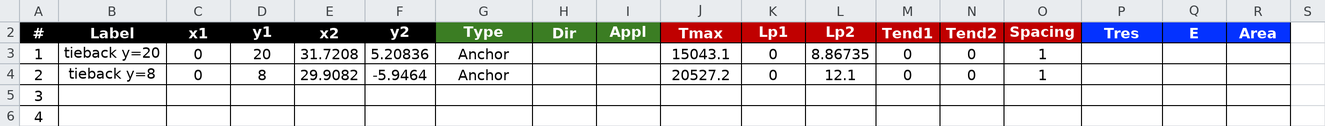
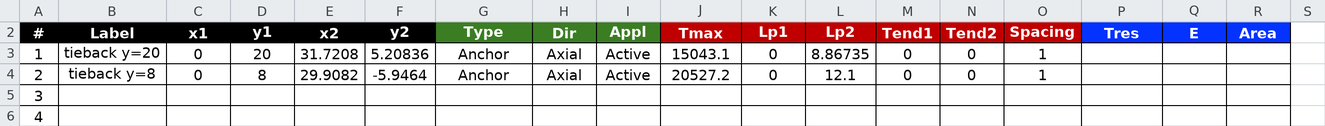
docs(tutorials): the reinforce sheets show what their formulas answer
Dir/Appl formula cells carry cached values (XML surgery, formulas
untouched, loader asserted identical) so renders and non-Excel readers
see what Excel shows; both sheet renders regenerated. LEM-8's intro
names the base 10 ft below the slope (not in the drawing) and the
profile step includes Max Depth in the entry instruction.

Claude-Session: https://claude.ai/code/session_01XjjT2aBxw8gY7EFdpoUcpj

Changed region(s): [[0.4023, 0.5476, 0.4951, 0.6429], [0.4023, 0.381, 0.4951, 0.4762]]

diff --git a/tools/fill_reinforce_formula_cache.py b/tools/fill_reinforce_formula_cache.py
@@ -1,0 +1,101 @@
+"""Store cached results for the reinforce sheet's Dir/Appl formula cells.
+
+The template's ``reinforce!H:I`` are VLOOKUPs reading ``Type``. A workbook
+written by openpyxl carries the formulas but no cached results, so Excel shows
+Dir/Appl once it opens the file while every other reader — ``render_sheet``,
+a docs screenshot, a pandas dump — sees blank cells. Excel itself stores a
+cached ``<v>`` beside every ``<f>``; this script adds the same, by direct
+sheet-XML surgery (openpyxl cannot write a value behind a formula), leaving
+the formulas byte-identical. ``fullCalcOnLoad`` still makes Excel recompute
+on open, so a wrong cache could never survive a real session.
+
+The cached values are not guessed: each row's Type is resolved through
+``xslope.fileio``'s own preset table, and the loader's output is asserted
+identical before and after.
+
+Run:  python3 tools/fill_reinforce_formula_cache.py <workbook.xlsx> [...]
+"""
+
+import re
+import shutil
+import sys
+import zipfile
+import contextlib
+import io
+
+PRESETS = {  # Type -> (Dir, Appl), the template's own lookup block
+    "geosynthetic": ("Tangent", "Active"),
+    "nail": ("Axial", "Passive"),
+    "tieback": ("Axial", "Active"),
+    "anchor": ("Axial", "Active"),
+}
+
+
+def load_lines(path):
+    from xslope.fileio import load_slope_data
+    with contextlib.redirect_stdout(io.StringIO()):
+        sd = load_slope_data(path)
+    return [(l.get("label"), l.get("type"), l.get("dir"), l.get("appl"))
+            for l in sd.get("reinforcement_lines") or []]
+
+
+def fill(path):
+    before = load_lines(path)
+    tmp = path + ".tmp"
+    with zipfile.ZipFile(path) as zin:
+        names = zin.namelist()
+        # find the reinforce sheet by its declared name
+        wbxml = zin.read("xl/workbook.xml").decode("utf-8")
+        m = re.search(r'<sheet[^>]*name="reinforce"[^>]*?r:id="rId(\d+)"', wbxml)
+        rels = zin.read("xl/_rels/workbook.xml.rels").decode("utf-8")
+        relel = re.search(r'<Relationship\b[^>]*\bId="rId%s"[^>]*/>' % m.group(1), rels)
+        target = re.search(r'Target="([^"]+)"', relel.group(0)).group(1)
+        target = target.lstrip("/")
+        if not target.startswith("xl/"):
+            target = "xl/" + target
+        sheet = zin.read(target).decode("utf-8")
+        shared = zin.read("xl/sharedStrings.xml").decode("utf-8") if "xl/sharedStrings.xml" in names else ""
+
+        # rows 3..: read Type (G) inline/shared is messy — take types from the loader instead
+        types = [t for (_, t, _, _) in before]
+        filled = []
+        row = 3
+        for t in types:
+            dirv, applv = PRESETS[str(t).lower()]
+            for col, val in (("H", dirv), ("I", applv)):
+                ref = f"{col}{row}"
+                # match the formula cell and add a cached string value
+                pat = re.compile(r'(<c r="%s"[^>]*?)(/>|>(.*?)</c>)' % ref, re.S)
+                mm = pat.search(sheet)
+                if not mm:
+                    continue
+                cell = mm.group(0)
+                if "<f" not in cell:
+                    continue  # not a formula cell; leave alone
+                if re.search(r"<v>[^<]+</v>", cell):
+                    continue  # already carries a non-empty cache
+                head = mm.group(1)
+                if 't="' not in head:
+                    head = head.rstrip() + ' t="str"'
+                inner = re.search(r">(.*)</c>", cell, re.S)
+                body = inner.group(1) if inner else ""
+                body = re.sub(r"<v\s*/>|<v></v>", "", body)  # drop an empty cache
+                newcell = head + ">" + body + f"<v>{val}</v></c>"
+                sheet = sheet[:mm.start()] + newcell + sheet[mm.end():]
+                filled.append(ref)
+            row += 1
+
+        with zipfile.ZipFile(tmp, "w", zipfile.ZIP_DEFLATED) as zout:
+            for n in names:
+                data = sheet.encode("utf-8") if n == target else zin.read(n)
+                zout.writestr(n, data)
+    shutil.move(tmp, path)
+    after = load_lines(path)
+    assert before == after, f"loader output changed: {before} != {after}"
+    assert filled, f"{path}: nothing was filled -- check the cell matching"
+    print(f"{path}: cached {len(filled)} cells ({', '.join(filled)}); loader identical")
+
+
+if __name__ == "__main__":
+    for p in sys.argv[1:]:
+        fill(p)

diff --git a/docs/tutorials/lem08_reinforced_slope.md b/docs/tutorials/lem08_reinforced_slope.md
@@ -8,7 +8,9 @@ description: "Build a 24 ft sand fill held up by six layers of geogrid in XSLOPE
 A 24 ft embankment of clean sand — c = 0, φ = 37° — standing at 1.25:1 under a
 240 psf surcharge. Sand alone cannot stand that steep at those numbers; six
 layers of geogrid do, each 20 ft long, 4 ft apart vertically, developing 800
-lb/ft of tension. The face is wrapped in a 2 ft band of cohesive fill. The
+lb/ft of tension. The face is wrapped in a 2 ft band of cohesive fill, and the
+base of the problem is 10 ft below the bottom of the slope — not pictured in
+the drawing. The
 problem and the drawing below are Example 5 from the UTEXASED user manual,
 S. G. Wright's educational version of UTEXAS.
 
@@ -245,12 +247,13 @@ material properties from the table above, as shown below:
 ### 2. The `profile` worksheet
 
 One block per profile line, with its **Mat ID** above the coordinates. Enter (or
-copy-paste) the vertices from the geometry tables above:
+copy-paste) the vertices from the geometry tables above, and set `profile!B2`
+**Max Depth** to `-10`:
 
 ![The finished profile worksheet](images/lem08_sheet_profile.png)
 
-`profile!B2` **Max Depth** is an elevation — `-10`, the bottom of the model, not
-a thickness below the toe.
+**Max Depth** is an elevation — `-10` is the bottom of the model, not a
+thickness below the toe.
 
 ### 3. The `dloads` worksheet
 
